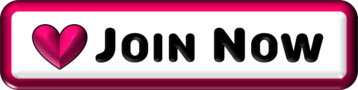
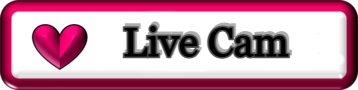
.

Changed region(s): [[0.2458, 0.2222, 0.9218, 0.7111]]

diff --git a/singlesbowtie/index.html b/singlesbowtie/index.html
@@ -241,17 +241,17 @@ function MM_swapImage() { //v3.0
 <div id="containers"  onClick="https://bacerylips.com/WrWQSJRG?tag=slodo" style="cursor: pointer;"> 
 <div class="container">
 <div class="containerm">
-<!--div id="top"><a href="#"><img src="images/logo.png" alt="singlesbowtie.com" border="0"></a></div-->
+<div id="top"><a href="#"><img src="images/logo.png" alt="singlesbowtie.com" border="0"></a></div-->
 <div id="middel"> <img src="images/time.png" width="886" height="200" alt="singlesbowtie.com"></div>
 <div id="middelbot"><ul>
-<li><a href="https://bacerylips.com/WrWQSJRG?tag=slodo&dir=cam
+<li><a href="https://bacerylips.com/WrWQSJRG?tag=slodo
 "><img src="images/woman.png" alt="singlesbowtie.com"></a></li>
 <li><a href="https://bacerylips.com/WrWQSJRG?tag=slodo&dir=main
 "><img src="images/man.png" alt="singlesbowtie.com"></a></li>
 </ul></div>
 </div>
  
-<div id="joinnow"><a href="https://bacerylips.com/WrWQSJRG?tag=slodo
+<div id="joinnow"><a href="https://bacerylips.com/WrWQSJRG?tag=slodo&dir=cam
 " ><img src="images/joinmail.png" name="Image5" width="358" height="107" border="0" alt="singlesbowtie.com"></a></div>
  
 <div id="footer">
